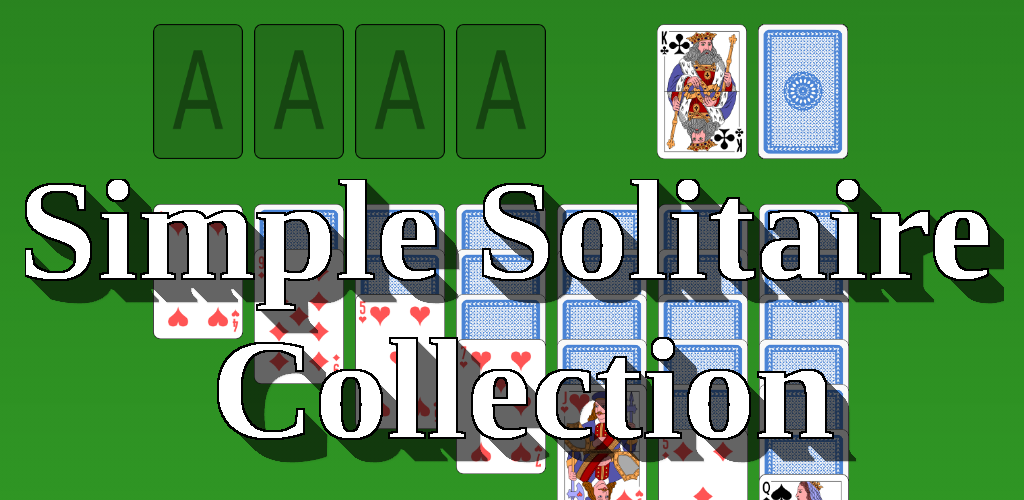
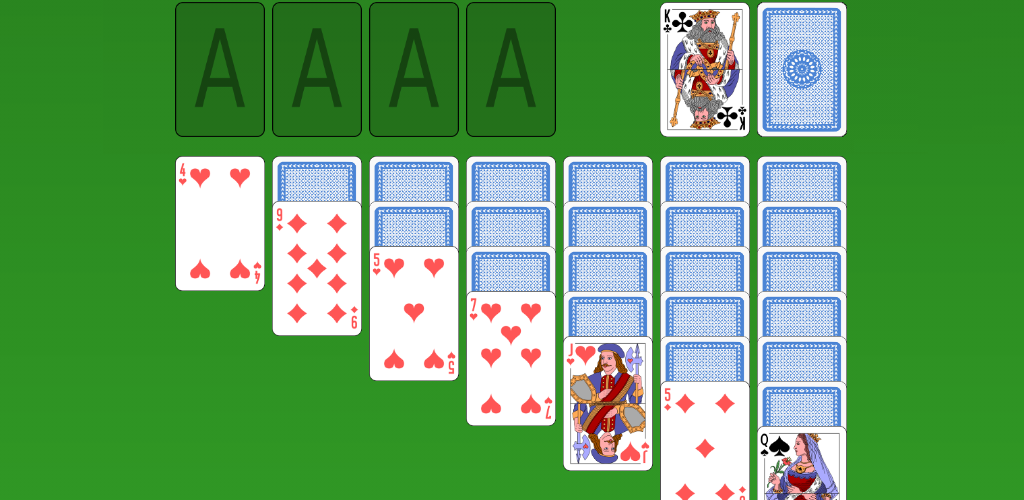
better way to handle different locales for menu pictures

diff --git a/app/src/main/java/de/tobiasbielefeld/solitaire/helper/Bitmaps.java b/app/src/main/java/de/tobiasbielefeld/solitaire/helper/Bitmaps.java
@@ -57,31 +57,10 @@ public class Bitmaps {
      * @param posY Y-coordinate of the preview in the file
      * @return a single bitmap
      */
-    public Bitmap getMenu(Locale locale, int posX, int posY) {
+    public Bitmap getMenu(int posX, int posY) {
 
         if (menu == null) {
-
-            int resID;
-
-            switch(locale.getLanguage()){
-                default:
-                    resID = R.drawable.backgrounds_menu_default;
-                    break;
-                case "fr":
-                    resID = R.drawable.backgrounds_menu_fr;
-                    break;
-                case "eo":
-                    resID = R.drawable.backgrounds_menu_eo;
-                    break;
-                case "pl":
-                    resID = R.drawable.backgrounds_menu_pl;
-                    break;
-                case "ja":
-                    resID = R.drawable.backgrounds_menu_ja;
-                    break;
-
-            }
-            menu = BitmapFactory.decodeResource(res, resID);
+            menu = BitmapFactory.decodeResource(res, R.drawable.backgrounds_menu);
             menuWidth = menu.getWidth() / 6;
             menuHeight = menu.getHeight() / 3;
         }

diff --git a/app/src/main/java/de/tobiasbielefeld/solitaire/classes/Stack.java b/app/src/main/java/de/tobiasbielefeld/solitaire/classes/Stack.java
@@ -237,8 +237,17 @@ public class Stack {
                 break;
             case DOWN:
                 spacing = min((spacingMax - view.getY()) / (currentCards.size() + 1), defaultSpacing);
-                for (int i = 0; i < currentCards.size(); i++)
+
+                //PointF currentPos = new PointF(view.getX(), view.getY());
+                for (int i = 0; i < currentCards.size(); i++) {
+
                     currentCards.get(i).setLocation(view.getX(), view.getY() + spacing * i);
+                    /*currentCards.get(i).setLocation(currentPos.x, currentPos.y);
+
+
+                    currentPos.y+=currentCards.get(i).isUp() ? spacing : defaultSpacing/2;*/
+                }
+
                 break;
             case UP:
                 spacing = min((view.getY() - spacingMax) / (currentCards.size() + 1), defaultSpacing);

diff --git a/app/src/main/java/de/tobiasbielefeld/solitaire/games/Klondike.java b/app/src/main/java/de/tobiasbielefeld/solitaire/games/Klondike.java
@@ -48,10 +48,10 @@ public class Klondike extends Game {
     public void setStacks(RelativeLayout layoutGame, boolean isLandscape) {
 
         // initialize the dimensions
-        setUpCardWidth(layoutGame, isLandscape, 8, 10);
+        setUpCardWidth(layoutGame, isLandscape, 13, 14);
 
         //calculate spacing and startposition of cards
-        int spacing = setUpHorizontalSpacing(layoutGame, 7, 8);
+        int spacing = setUpHorizontalSpacing(layoutGame, 12, 13);
         int startPos = layoutGame.getWidth() / 2 - Card.width / 2 - 3 * Card.width - 3 * spacing;
 
         //first order the foundation stacks

diff --git a/app/src/main/java/de/tobiasbielefeld/solitaire/ui/GameSelector.java b/app/src/main/java/de/tobiasbielefeld/solitaire/ui/GameSelector.java
@@ -162,7 +162,7 @@ public class GameSelector extends CustomAppCompatActivity implements NavigationV
             if (result.size() == 0 || result.size() < (i + 1) || result.get(i) == 1) {
                 imageView.setVisibility(View.VISIBLE);
 
-                imageView.setImageBitmap(bitmaps.getMenu(Locale.getDefault(),i % 6, i / 6));
+                imageView.setImageBitmap(bitmaps.getMenu(i % 6, i / 6));
                 imageView.setOnTouchListener(this);
                 row.addView(imageView);
                 counter++;

diff --git a/app/src/main/java/de/tobiasbielefeld/solitaire/ui/settings/Settings.java b/app/src/main/java/de/tobiasbielefeld/solitaire/ui/settings/Settings.java
@@ -142,7 +142,6 @@ public class Settings extends AppCompatPreferenceActivity implements SharedPrefe
             updatePreferenceMenuColumnsSummary();
 
         } else if (key.equals(PREF_KEY_LANGUAGE)) {
-            bitmaps.resetMenuPreview();
             setLocale();
 
         } else if (key.equals(PREF_KEY_FORTY_EIGHT_LIMITED_REDEALS)){
